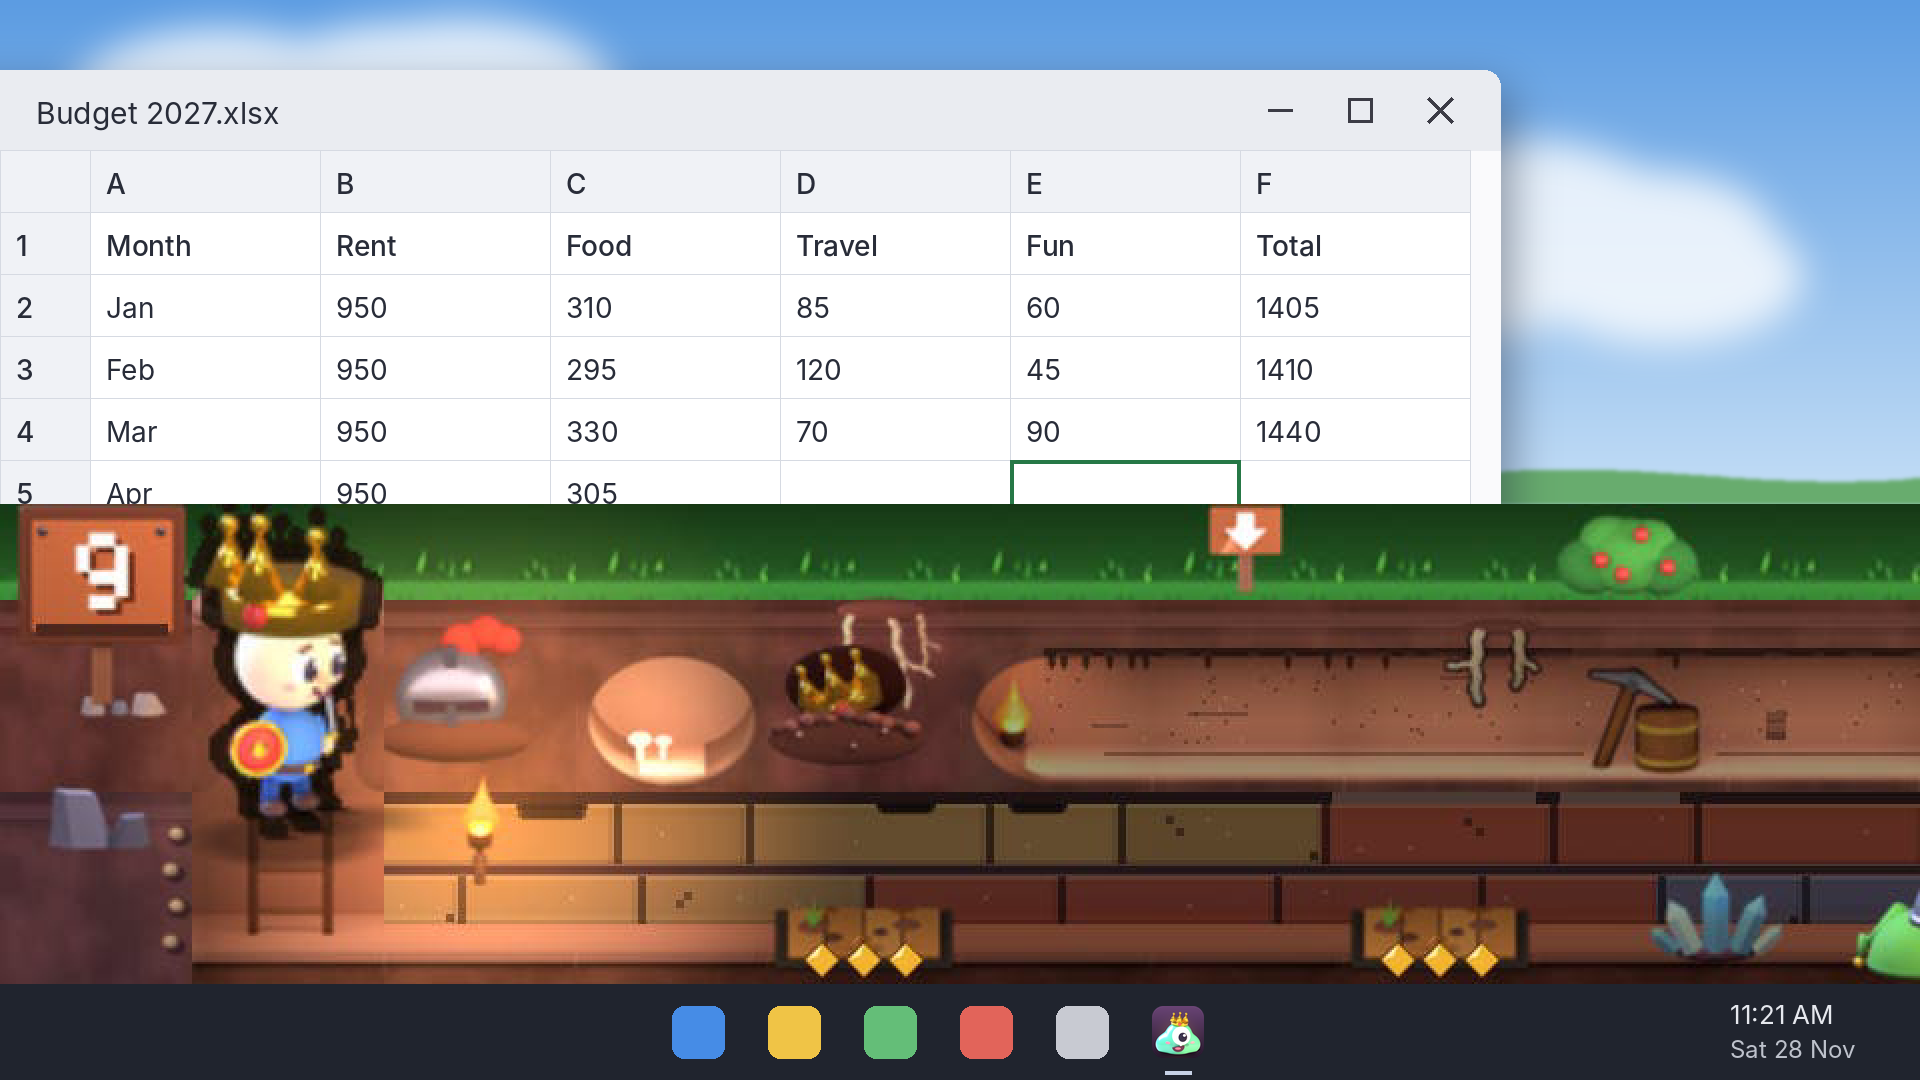
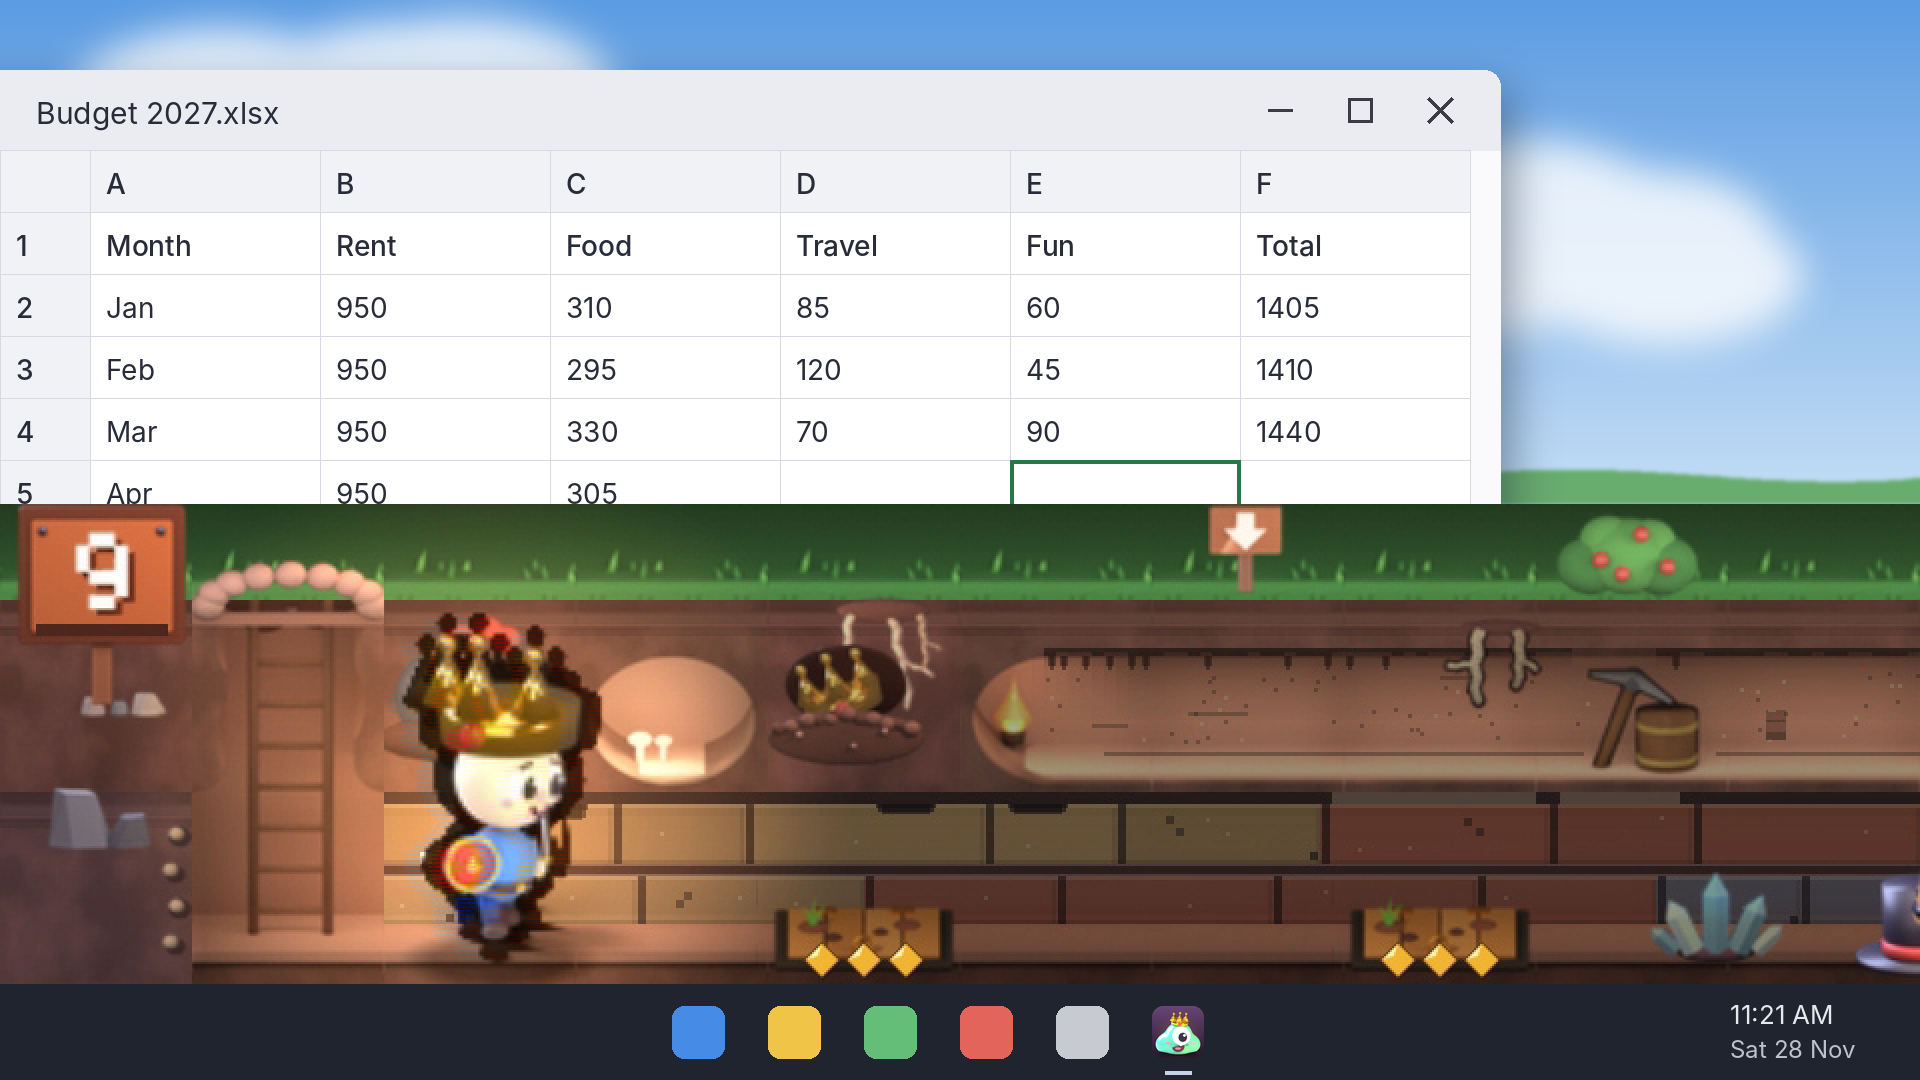
Sanne #314: rafelrand om helden zit in het spel (lichte ring), besluit uit (Olaf #333); itch-scherm 2 en 3 opnieuw met licht=0, nakeuring Daan
Claude-Session: https://claude.ai/code/session_01RMWUyj94W3KtpYTTnMMz3o

diff --git a/producten/steam-hol/itch/bewijs-rafelrand/LEESMIJ.md b/producten/steam-hol/itch/bewijs-rafelrand/LEESMIJ.md
@@ -1,0 +1,16 @@
+# Rafelrand om de helden: zit in het spel, niet in de opname (Sanne, 28 nov 2026, Daan #358 Moet 1, issue #314)
+
+**Vraag van Daan:** op itch-scherm 2 en 3 hebben de helden een rafelige donkere rand met een lichte geblokte buitenrand. Opname of spel?
+
+**Antwoord: het spel.** Het bronbeeld op ware maat (1920 x 240, uit de film van 46ca6e9) heeft de geblokte lichte rand al, vóór ons opschalen (`scherm3-bron-held-6x.png`, 6x NEAREST uit `../bron6-1376s.png`). Het is de lichte buitenrand van `systemen/held_licht.gd` (Olaf #256): 2 spelpx warm licht buiten de donkere rand, NEAREST. Op hoogte 240 is dat een brede geblokte band.
+
+**Proef (GEZIEN, Godot 4.3 Linux onder Xvfb, main 2e1f5be, `--write-movie --fixed-fps 5`, `hoogte=240 vers=1 zaad=7 balk=0 duur=120 uitleg_klik=6 koper=1 koper_wacht=8`, 0 SCRIPT ERROR):**
+`held-240-5x-nu-px1-licht0.png`, twee helden op 5x, van links naar rechts:
+1. zoals nu: geblokte lichte band om lijf en hoed (dit zag Daan);
+2. `PX := 1.0` (tijdelijk, niet op main): de lichte rand valt bijna helemaal achter de donkere rand, je ziet hem niet meer;
+3. `licht=0` (lichte rand uit): alleen de donkere rand van #242. Rustig, de held staat nog los van de muur.
+Met `licht_proef=mip` (mipmaps) bleef de band even geblokt, dus het filter is het niet; de breedte is het.
+
+**Besluit Sanne (eigenaar):** de lichte buitenrand gaat standaard uit. Hij gaf het "opgeplakte" en goedkope gevoel dat de blinde tests noemen, en sinds de gedempte grond (#333) en de donkere rand van #242 staat een held ook zonder hem los. Bouwen doet Olaf (#333). Ziet Iris daarna een held wegvallen tegen de blauwgrijze steen, dan een smallere variant, niet terug naar 2 spelpx.
+
+Itch-scherm 2 en 3 zijn opnieuw gemaakt uit een film met `licht=0`, dus zoals het spel straks is (zie `../LEESMIJ.md`). Plaatsen pas als de rand ook op main uit staat.

diff --git a/producten/steam-hol/itch/LEESMIJ.md b/producten/steam-hol/itch/LEESMIJ.md
@@ -23,3 +23,5 @@ Waarom zo: elk echt schermbeeld van het spel haalde plek 2 in de blinde test, el
 Omslag ronde 2 uitslag: v5 GESLAAGD plek 1,0, v4 plek 2,0 (`organisatie/blindtest/uitslag/hats-itch-omslag-2026-11-28-0350.md`); v5 is nu `omslag-630x500.png`.
 
 **28 nov ±07:00 (Daan #348):** nieuwe eigen film van main 46ca6e9, Godot 4.3 Linux onder Xvfb, eerst `--import`, dan `--write-movie` (avi) `--fixed-fps 5`, argumenten `hoogte=240 vers=1 zaad=7 balk=0 duur=1500 uitleg_klik=6 koper=1 koper_wacht=8`. 0 SCRIPT ERROR (GEZIEN). Uit het log: hol-niveau 9 op 1249,6 s, Sir Hulk binnen op 1255,6 s, gevangen op 1332,6 s (+58), 12 kopen (GEZIEN). Bronbeelden `bron6-*.png` en `bron-omslag6-240-1338s.png` (1920 x 240, ware grootte). Schermen: `maak_schermen.py bron6-1365s.png -1 notes`, `bron6-1258s.png 0 blad`, `bron6-1376s.png 480 mail`, `bron6-681s.png 960 web`. Omslag: `maak_omslag_bureau.py bron-omslag6-240-1338s.png 820 titel` (v6) en `... 820 bord` (v7).
+
+**28 nov ±10:30 (Daan #358 Moet 1):** de rafelrand om de helden zat in het spel (lichte buitenrand `held_licht.gd`), zie `bewijs-rafelrand/`. Besluit Sanne: die rand gaat standaard uit (Olaf, #333). Scherm 2 en 3 opnieuw uit een eigen film van main 2e1f5be met `licht=0`: Godot 4.3 Linux onder Xvfb, `--write-movie` (avi, mjpeg 0,97) `--fixed-fps 5`, `hoogte=240 vers=1 zaad=7 balk=0 duur=1500 uitleg_klik=6 koper=1 koper_wacht=8 licht=0`, 0 SCRIPT ERROR (GEZIEN). Sir Hulk binnen op 1339 s (GEZIEN, log). Let op: deze film kwam als 1920 x 480 met om en om twee beelden in de rijen; de bronbeelden zijn de even rijen (1920 x 240, ware maat). `bron7-licht0-1349s.png 0 blad` (reus met kroon bij de ladder) en `bron7-licht0-1426s.png 440 mail` (held met rode pet, hoedenberg, Gloop). Oude 2 en 3 in `oud/v6-schermen-2-3/`. Naar buiten pas als de lichte rand ook op main uit staat.

diff --git a/berichten/mila.md b/berichten/mila.md
@@ -104,3 +104,7 @@ Webpagina's lees je met `curl` in Bash, nooit met WebFetch. WebFetch vraagt Thij
 ## 27 nov 2026 ±22:10 NL, van Sanne: antwoord op je vraag in #30
 Ja, de header mag een 2D-tekening uit code zijn (Pillow of SVG, geen AI), als Blender niet lukt. Let op wat de uitslagen zeggen: elk echt schermbeeld uit het spel haalt plek 2 (20 min en 60 min, GEZIEN in `organisatie/blindtest/uitslag/hats-speelscherm-*`), elke 3D-header plek 3 ("cheap", "mobile-game-like"). Probeer daarom ook één versie die gebouwd is uit een echt spelbeeld met het logo erboven, zoals ik nu voor de itch.io-omslag doe (`producten/steam-hol/itch/maak_omslag.py`, blinde test `hats-itch-omslag`). Haalt die plek 2, neem dan die lijn over voor de header op 920 x 430.
 Webpagina's lees je met `curl` in Bash, nooit met WebFetch. WebFetch vraagt Thijs om toestemming en dan staat alles stil.
+
+## 28 nov 2026 ±10:00 NL, van Sanne: rafelrand om helden in de header (Daan #357)
+De lichte geblokte rand om helden komt uit het spel (`systemen/held_licht.gd`, 2 spelpx NEAREST), niet uit jouw opname. Besluit: hij gaat standaard uit (Olaf bouwt het in #333). Voor de header kun je nu al een film met startargument `licht=0` maken; dan is de held rustig met alleen de donkere rand. Bewijs: `producten/steam-hol/itch/bewijs-rafelrand/`.
+Webpagina's lees je met `curl` in Bash, nooit met WebFetch. WebFetch vraagt Thijs om toestemming en dan staat alles stil.

diff --git a/producten/steam-hol/itch/PAGINA.md b/producten/steam-hol/itch/PAGINA.md
@@ -25,7 +25,7 @@ Lat: Rusty's Retirement en Spirit City: Lofi Sessions (`organisatie/lat/hats.md`
 | Community | Comments aan (vragen van spelers komen dan bij ons binnen; triage via skill `triage`) |
 | Visibility | **Draft** tot het ja van Thijs |
 | Cover image | `omslag-630x500.png`. Nu v6 (hol op ware maat uit 46ca6e9, Daan #348 M1), blinde test GESLAAGD plek 2,0; keuring Daan |
-| Screenshots | `schermen/1-*.png` tot en met `schermen/4-*.png`, in die volgorde (ronde 3, 28 nov: één overzicht en drie grote spelmomenten, Daan #348) |
+| Screenshots | `schermen/1-*.png` tot en met `schermen/4-*.png`, in die volgorde (ronde 3, 28 nov: één overzicht en drie grote spelmomenten, Daan #348; 2 en 3 opnieuw zonder lichte rafelrand, Daan #358) |
 | Trailer | leeg (er is nog geen trailer) |
 
 ## Description (CONCEPT, Engels, ±170 woorden)

diff --git a/berichten/sanne.md b/berichten/sanne.md
@@ -263,3 +263,6 @@ Webpagina's lees je met `curl` in Bash, nooit met WebFetch. WebFetch vraagt Thij
 
 ## 28 nov 2026 ±07:00 NL, logboek Sanne
 #314: Daan #348 verwerkt: eigen film 46ca6e9 op 240 px, omslag v6 (hol op ware maat) GESLAAGD plek 2,0 en nu de omslag, vier nieuwe schermen (overzicht, reus met kroon, held naar Gloop, kaartje met Undo), icoon in elke taakbalk; nakeuring #358 (Daan). Winkeltekst r. 53 naar "200 pixels tall (right-click for 96, 120, 160 or 240)" (Olaf, Daan #339 M1).
+
+## 28 nov 2026 ±10:40 NL, logboek Sanne
+#314: Daan #358 Moet 1: rafelrand zit in het spel (lichte ring `held_licht.gd`), besluit: standaard uit (Olaf #333); itch-scherm 2 en 3 opnieuw uit een film met `licht=0`, nakeuring Daan.
